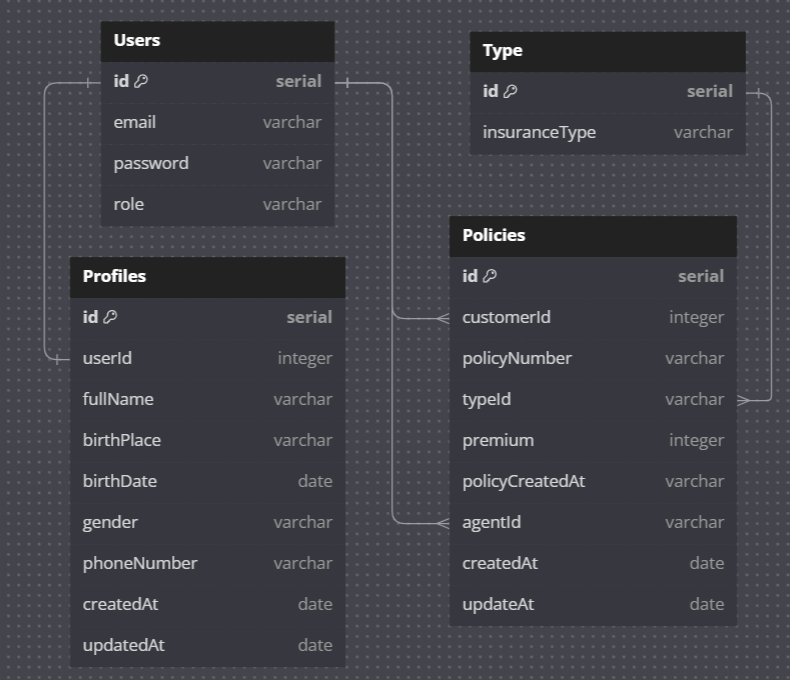
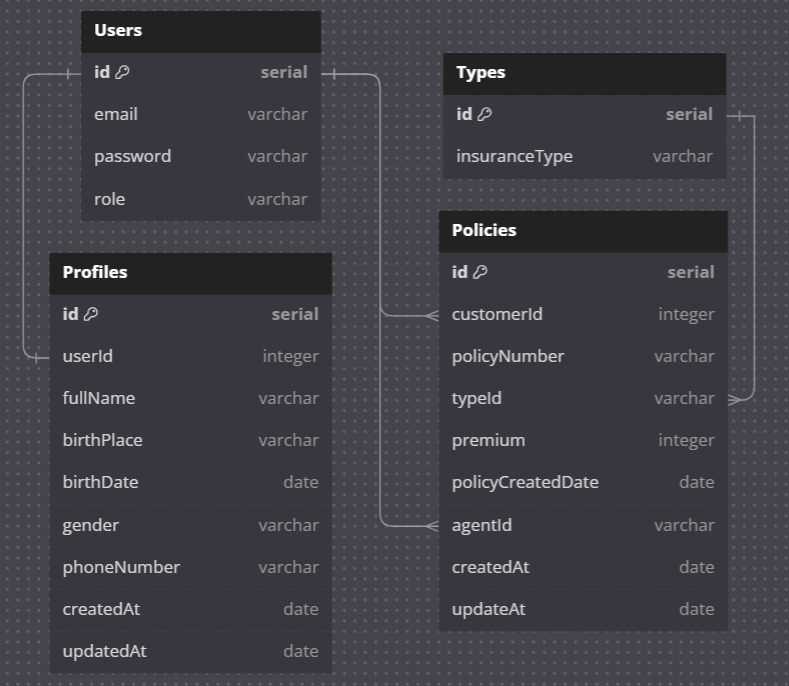
feat: gitignore, mengubah erd.png dan membuat ulang migrasi dan model dari awal

diff --git a/migrations/20241107082436-create-policy.js b/migrations/20241107082436-create-policy.js
@@ -1,0 +1,43 @@
+'use strict';
+/** @type {import('sequelize-cli').Migration} */
+module.exports = {
+  async up(queryInterface, Sequelize) {
+    await queryInterface.createTable('Policies', {
+      id: {
+        allowNull: false,
+        autoIncrement: true,
+        primaryKey: true,
+        type: Sequelize.INTEGER
+      },
+      customerId: {
+        type: Sequelize.INTEGER
+      },
+      policyNumber: {
+        type: Sequelize.STRING
+      },
+      typeId: {
+        type: Sequelize.STRING
+      },
+      premium: {
+        type: Sequelize.INTEGER
+      },
+      policyCreatedAt: {
+        type: Sequelize.DATE
+      },
+      agentId: {
+        type: Sequelize.STRING
+      },
+      createdAt: {
+        allowNull: false,
+        type: Sequelize.DATE
+      },
+      updatedAt: {
+        allowNull: false,
+        type: Sequelize.DATE
+      }
+    });
+  },
+  async down(queryInterface, Sequelize) {
+    await queryInterface.dropTable('Policies');
+  }
+};

diff --git a/migrations/20241107082154-create-profile.js b/migrations/20241107082154-create-profile.js
@@ -1,0 +1,43 @@
+'use strict';
+/** @type {import('sequelize-cli').Migration} */
+module.exports = {
+  async up(queryInterface, Sequelize) {
+    await queryInterface.createTable('Profiles', {
+      id: {
+        allowNull: false,
+        autoIncrement: true,
+        primaryKey: true,
+        type: Sequelize.INTEGER
+      },
+      userId: {
+        type: Sequelize.INTEGER
+      },
+      fullName: {
+        type: Sequelize.STRING
+      },
+      birthPlace: {
+        type: Sequelize.STRING
+      },
+      birthDate: {
+        type: Sequelize.DATE
+      },
+      gender: {
+        type: Sequelize.STRING
+      },
+      phoneNumber: {
+        type: Sequelize.STRING
+      },
+      createdAt: {
+        allowNull: false,
+        type: Sequelize.DATE
+      },
+      updatedAt: {
+        allowNull: false,
+        type: Sequelize.DATE
+      }
+    });
+  },
+  async down(queryInterface, Sequelize) {
+    await queryInterface.dropTable('Profiles');
+  }
+};

diff --git a/migrations/20241107082030-create-user.js b/migrations/20241107082030-create-user.js
@@ -1,0 +1,34 @@
+'use strict';
+/** @type {import('sequelize-cli').Migration} */
+module.exports = {
+  async up(queryInterface, Sequelize) {
+    await queryInterface.createTable('Users', {
+      id: {
+        allowNull: false,
+        autoIncrement: true,
+        primaryKey: true,
+        type: Sequelize.INTEGER
+      },
+      email: {
+        type: Sequelize.STRING
+      },
+      password: {
+        type: Sequelize.STRING
+      },
+      role: {
+        type: Sequelize.STRING
+      },
+      createdAt: {
+        allowNull: false,
+        type: Sequelize.DATE
+      },
+      updatedAt: {
+        allowNull: false,
+        type: Sequelize.DATE
+      }
+    });
+  },
+  async down(queryInterface, Sequelize) {
+    await queryInterface.dropTable('Users');
+  }
+};

diff --git a/models/policy.js b/models/policy.js
@@ -1,0 +1,28 @@
+'use strict';
+const {
+  Model
+} = require('sequelize');
+module.exports = (sequelize, DataTypes) => {
+  class Policy extends Model {
+    /**
+     * Helper method for defining associations.
+     * This method is not a part of Sequelize lifecycle.
+     * The `models/index` file will call this method automatically.
+     */
+    static associate(models) {
+      // define association here
+    }
+  }
+  Policy.init({
+    customerId: DataTypes.INTEGER,
+    policyNumber: DataTypes.STRING,
+    typeId: DataTypes.STRING,
+    premium: DataTypes.INTEGER,
+    policyCreatedAt: DataTypes.DATE,
+    agentId: DataTypes.STRING
+  }, {
+    sequelize,
+    modelName: 'Policy',
+  });
+  return Policy;
+};

diff --git a/models/profile.js b/models/profile.js
@@ -1,0 +1,28 @@
+'use strict';
+const {
+  Model
+} = require('sequelize');
+module.exports = (sequelize, DataTypes) => {
+  class Profile extends Model {
+    /**
+     * Helper method for defining associations.
+     * This method is not a part of Sequelize lifecycle.
+     * The `models/index` file will call this method automatically.
+     */
+    static associate(models) {
+      // define association here
+    }
+  }
+  Profile.init({
+    userId: DataTypes.INTEGER,
+    fullName: DataTypes.STRING,
+    birthPlace: DataTypes.STRING,
+    birthDate: DataTypes.DATE,
+    gender: DataTypes.STRING,
+    phoneNumber: DataTypes.STRING
+  }, {
+    sequelize,
+    modelName: 'Profile',
+  });
+  return Profile;
+};

diff --git a/migrations/20241107082245-create-type.js b/migrations/20241107082245-create-type.js
@@ -1,0 +1,28 @@
+'use strict';
+/** @type {import('sequelize-cli').Migration} */
+module.exports = {
+  async up(queryInterface, Sequelize) {
+    await queryInterface.createTable('Types', {
+      id: {
+        allowNull: false,
+        autoIncrement: true,
+        primaryKey: true,
+        type: Sequelize.INTEGER
+      },
+      insuranceType: {
+        type: Sequelize.STRING
+      },
+      createdAt: {
+        allowNull: false,
+        type: Sequelize.DATE
+      },
+      updatedAt: {
+        allowNull: false,
+        type: Sequelize.DATE
+      }
+    });
+  },
+  async down(queryInterface, Sequelize) {
+    await queryInterface.dropTable('Types');
+  }
+};

diff --git a/models/user.js b/models/user.js
@@ -1,0 +1,25 @@
+'use strict';
+const {
+  Model
+} = require('sequelize');
+module.exports = (sequelize, DataTypes) => {
+  class User extends Model {
+    /**
+     * Helper method for defining associations.
+     * This method is not a part of Sequelize lifecycle.
+     * The `models/index` file will call this method automatically.
+     */
+    static associate(models) {
+      // define association here
+    }
+  }
+  User.init({
+    email: DataTypes.STRING,
+    password: DataTypes.STRING,
+    role: DataTypes.STRING
+  }, {
+    sequelize,
+    modelName: 'User',
+  });
+  return User;
+};

diff --git a/models/type.js b/models/type.js
@@ -1,0 +1,23 @@
+'use strict';
+const {
+  Model
+} = require('sequelize');
+module.exports = (sequelize, DataTypes) => {
+  class Type extends Model {
+    /**
+     * Helper method for defining associations.
+     * This method is not a part of Sequelize lifecycle.
+     * The `models/index` file will call this method automatically.
+     */
+    static associate(models) {
+      // define association here
+    }
+  }
+  Type.init({
+    insuranceType: DataTypes.STRING
+  }, {
+    sequelize,
+    modelName: 'Type',
+  });
+  return Type;
+};
